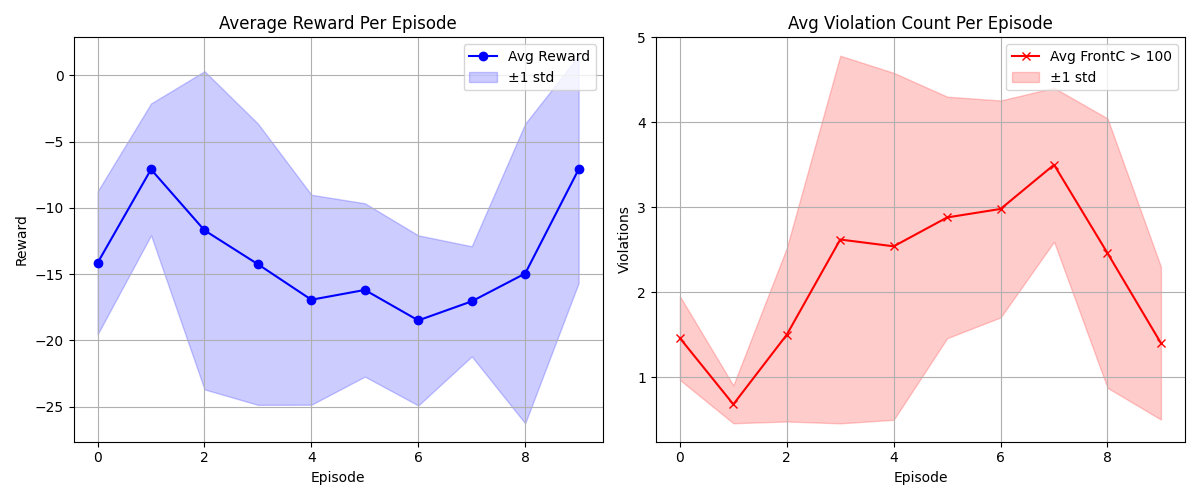
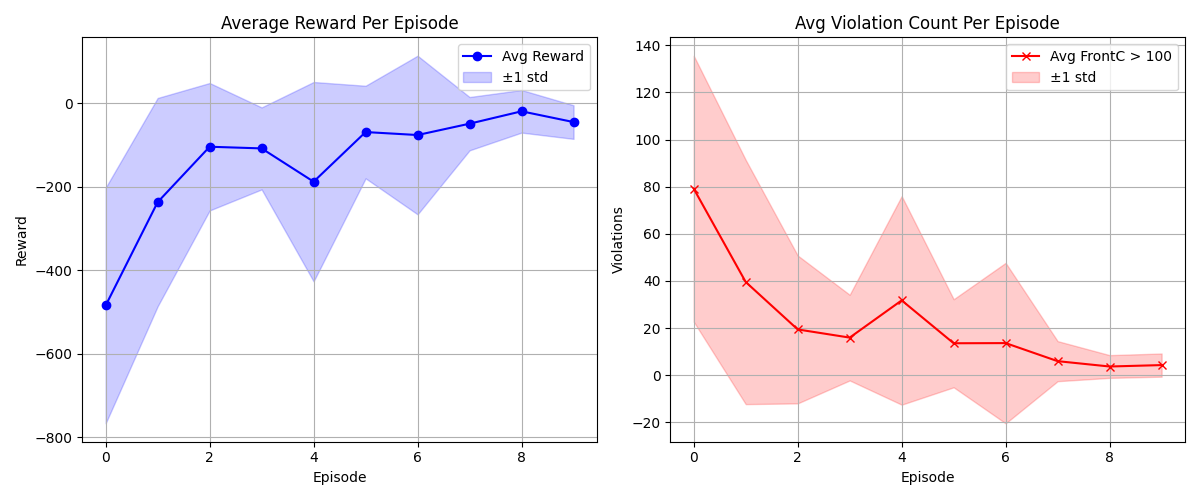
update

diff --git a/catkin_ws/src/learning_machines/src/learning_machines/examples.py b/catkin_ws/src/learning_machines/src/learning_machines/examples.py
@@ -81,18 +81,19 @@ def get_reward(irs, action_idx):
 
 def run_single_trial(rob: IRobobo, runs=10, episodes=10, alpha=0.1, gamma=0.9, epsilon=0.1):
     q_table = {}
-    trial_rewards = []
-    trial_violations = []
+    trial_rewards = []      # Will store average reward per run
+    trial_violations = []   # Will store total violations per run
     best_q_table = None
     best_avg_reward = float('-inf')
+
     for run in range(runs):
         print(f"  Run {run + 1}/{runs}")
         rob.play_simulation()
         initial_pos = rob.get_position()
         initial_ori = rob.get_orientation()
 
-        episode_rewards = []
-        episode_violations = []
+        total_run_reward = 0
+        total_run_violations = 0
 
         for ep in range(episodes):
             irs = rob.read_irs()
@@ -113,8 +114,8 @@ def run_single_trial(rob: IRobobo, runs=10, episodes=10, alpha=0.1, gamma=0.9, e
                 reward = get_reward(next_irs, action_idx)
                 total_reward += reward
 
-                # Count violation if FrontC > 100
-                if next_irs[4] > 50:
+                # Count violation if FrontC > 50
+                if next_irs[4] > 100:
                     violation_count += 1
 
                 next_state = get_state(next_irs)
@@ -131,32 +132,30 @@ def run_single_trial(rob: IRobobo, runs=10, episodes=10, alpha=0.1, gamma=0.9, e
 
                 state = next_state
 
-            episode_rewards.append(total_reward)
-            episode_violations.append(violation_count)
+            total_run_reward += total_reward
+            total_run_violations += violation_count
 
         rob.set_position(initial_pos, initial_ori)
         rob.reset_wheels()
         rob.stop_simulation()
 
-        trial_rewards.append(episode_rewards)
-        trial_violations.append(episode_violations)
+        # Store per-run aggregates
+        trial_rewards.append(total_run_reward)
+        trial_violations.append(total_run_violations)
 
-        avg_reward_this_run = np.mean(episode_rewards)
+        avg_reward_this_run = total_run_reward / episodes
         if avg_reward_this_run > best_avg_reward:
             best_avg_reward = avg_reward_this_run
-            best_q_table = q_table.copy()  # shallow copy is OK because values are floats/lists
+            best_q_table = q_table.copy()
 
-        trial_rewards.append(episode_rewards)
-        trial_violations.append(episode_violations)
-
-        # Save best q_table to file:
+        # Save best q_table to file
         with open('/root/results/best_q_table.pkl', 'wb') as f:
             pickle.dump(best_q_table, f)
 
-    # Average over runs for this trial (shape: [runs][episodes] → [episodes])
-    return np.mean(trial_rewards, axis=0), np.mean(trial_violations, axis=0)
+    return trial_rewards, trial_violations
 
-def example1(rob: IRobobo, trials=30, runs=10, episodes=10, alpha=0.1, gamma=0.9, epsilon=0.1):
+
+def example1(rob: IRobobo, trials=15, runs=10, episodes=10, alpha=0.1, gamma=0.9, epsilon=0.1):
     all_avg_rewards = []
     all_avg_violations = []
 
